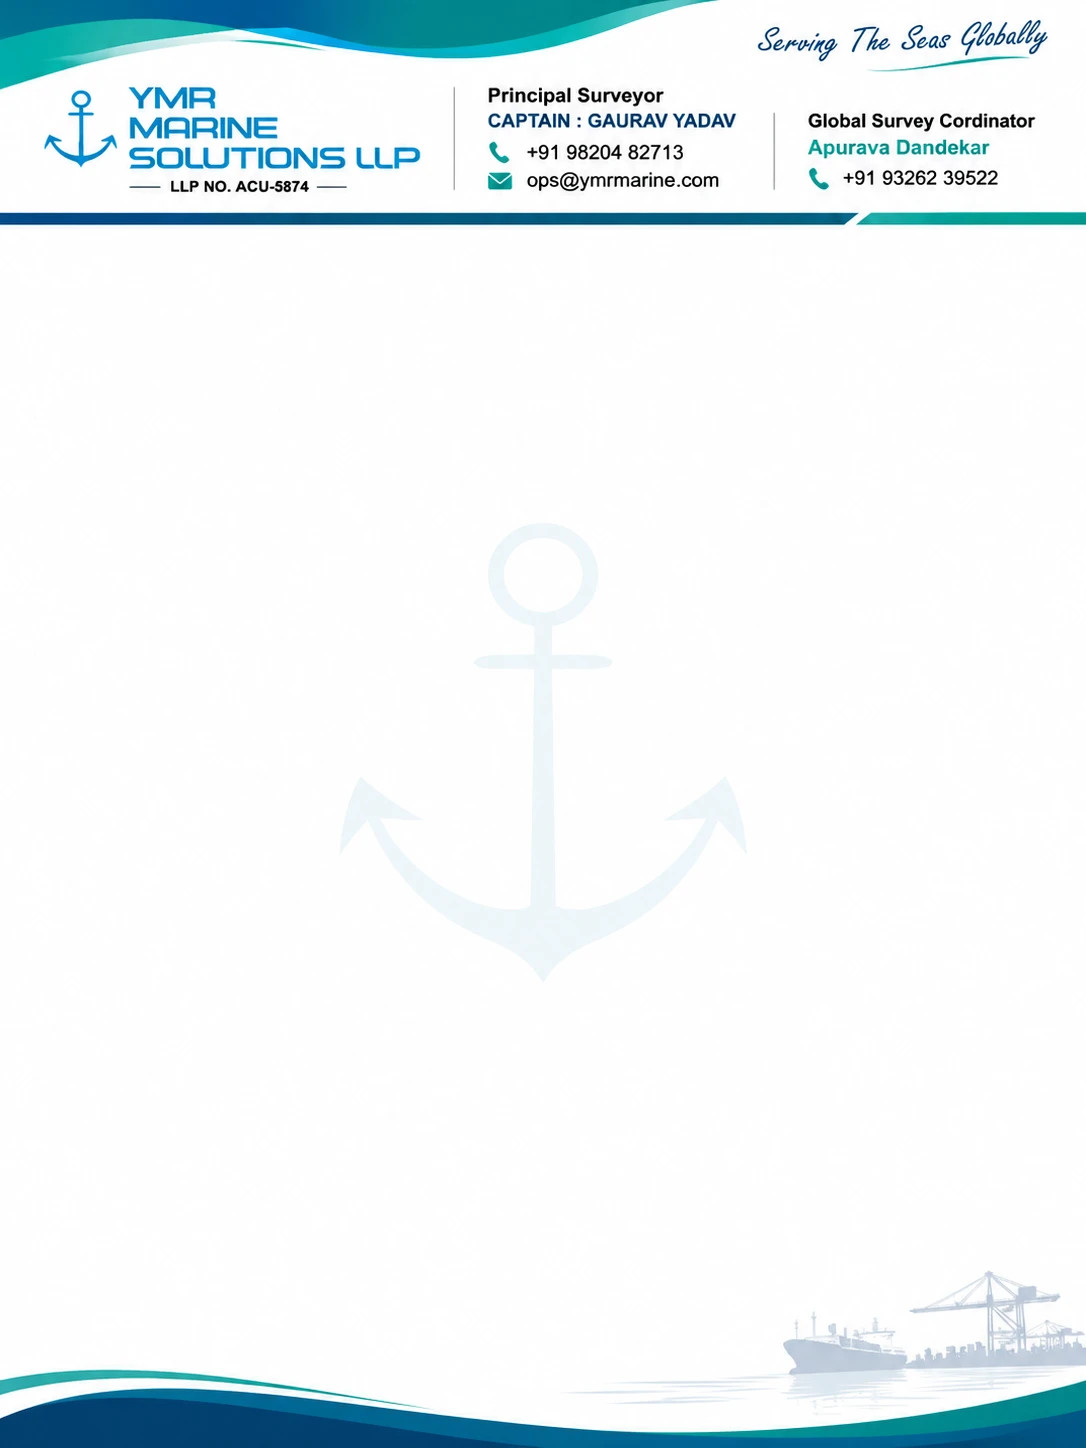
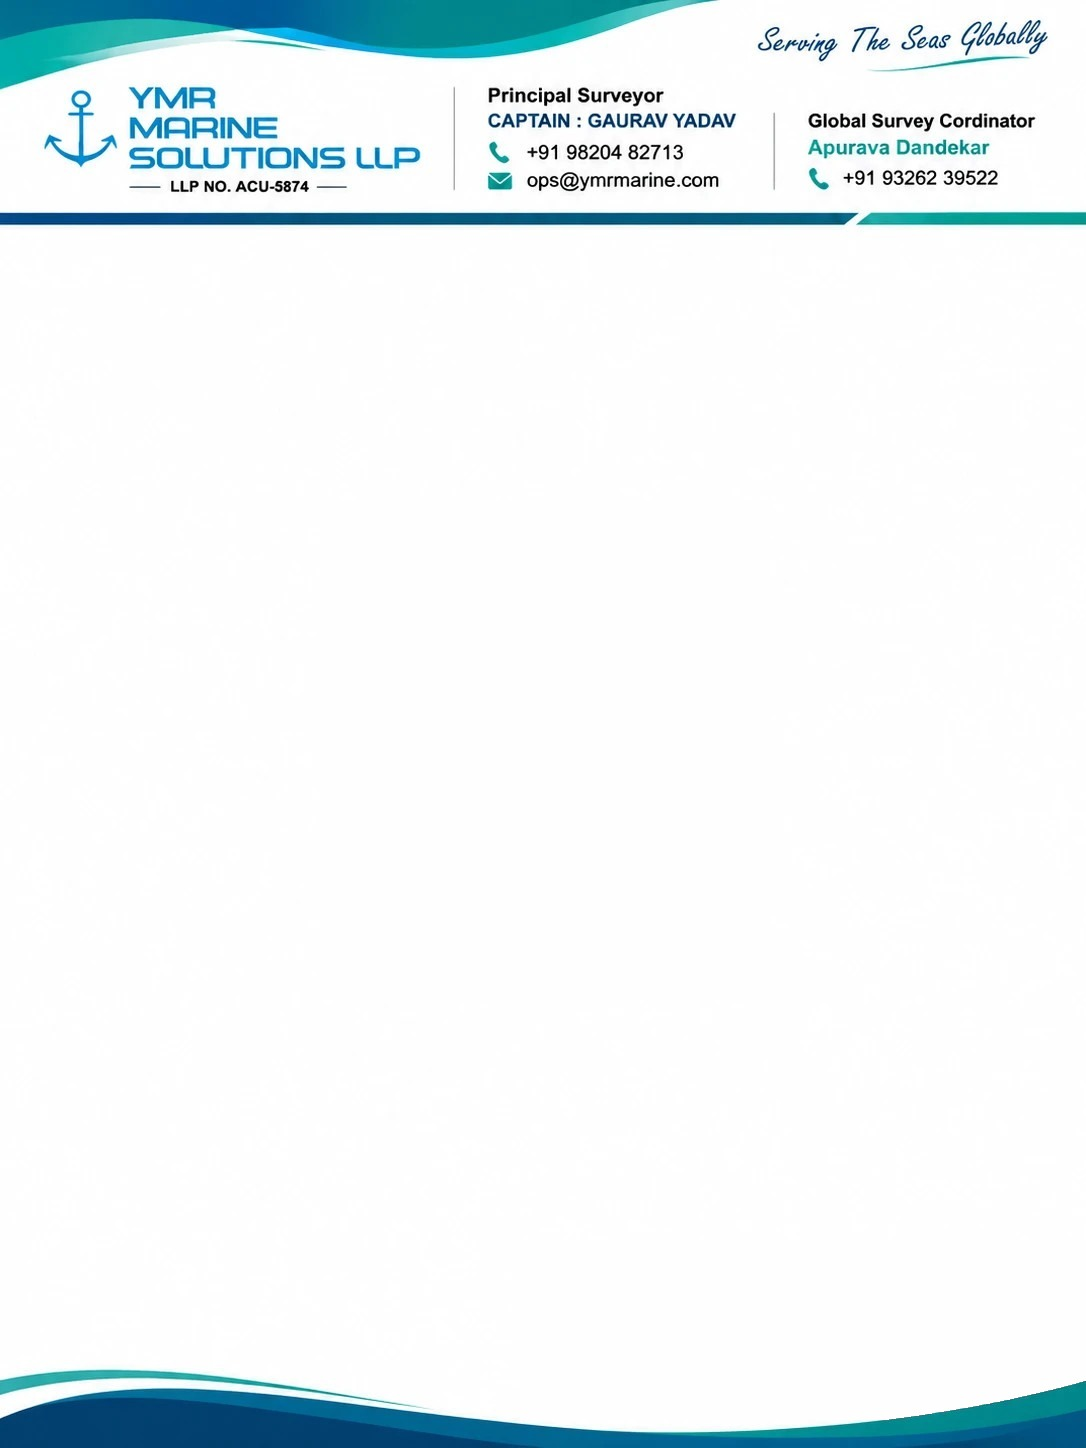
Invoice PDF: signature block on the right, plain letterhead; recovery units from agreed CP price
From staging (bf0889f):
- Signature block (right): signature, FOR YMR MARINE SOLUTIONS LLP, Gaurav Yadav,
  Authorized Signatory.
- Letterhead without the anchor watermark and the ship / crane picture.
- Recovery invoice: optional Agreed CP price for VLSFO, LSMGO, HSFO, ULSFO; unit =
  CP price x agreed %. ULSFO added as an optional fuel.

Claude-Session: https://claude.ai/code/session_01YTCWnYiBCGJ1LBELE6Lyi4

Changed region(s): [[0.7293, 0.8702, 1.0, 0.9634]]

diff --git a/YSMS/invoice_pdf.php b/YSMS/invoice_pdf.php
@@ -89,7 +89,11 @@ foreach (['vlsfo', 'hsfo', 'lsmgo'] as $fuel) {
     $v = $inv[$fuel . '_recovery'] ?? null;
     $recQty[$fuel] = $v !== null && $v !== '' ? rtrim(rtrim(number_format(abs((float)$v), 3, '.', ''), '0'), '.') : '';
 }
-const IG_FUELS = ['vlsfo' => 'VLSFO', 'hsfo' => 'HSFO', 'lsmgo' => 'LSMGO'];
+const IG_FUELS = ['vlsfo' => 'VLSFO', 'hsfo' => 'HSFO', 'lsmgo' => 'LSMGO', 'ulsfo' => 'ULSFO'];
+/** Order of the agreed CP price fields on the form. */
+const IG_CP_ORDER = ['vlsfo', 'lsmgo', 'hsfo', 'ulsfo'];
+/** Fuels that may be left empty on the recovery invoice (listed only when they have an amount). */
+const IG_FUELS_OPTIONAL = ['hsfo', 'ulsfo'];
 
 /** A posted amount / quantity: float, or null when not a valid number ≥ 0. */
 function igNum($v): ?float {
@@ -113,14 +117,19 @@ if (($_SERVER['REQUEST_METHOD'] ?? '') === 'POST') {
         foreach (IG_FUELS as $k => $label) {
             $rate = igNum($_POST[$k . '_rate'] ?? '');
             $qty = igNum($_POST[$k . '_qty'] ?? '');
+            // Unit = agreed CP price × agreed % (when the CP price is given and the unit left empty)
+            $cp = igNum($_POST['cp_' . $k] ?? '');
+            if ($rate === null && $cp !== null && $pct !== null && trim((string)($_POST[$k . '_rate'] ?? '')) === '') $rate = round($cp * $pct / 100, 2);
+            if (in_array($k, IG_FUELS_OPTIONAL, true) && trim((string)($_POST[$k . '_rate'] ?? '')) === '' && $rate === null) $rate = 0.0;
+            if (in_array($k, IG_FUELS_OPTIONAL, true) && trim((string)($_POST[$k . '_qty'] ?? '')) === '') $qty = 0.0;
             if ($rate === null || $qty === null) { $errors[] = $label . ' unit and quantity (enter 0 if there is none)'; continue; }
             $fuelRows[$k] = ['rate' => $rate, 'qty' => $qty];
         }
         if (!$errors) {
             $pctTxt = rtrim(rtrim(number_format($pct, 2, '.', ''), '0'), '.');
             foreach ($fuelRows as $k => $r) {
-                // HSFO is listed only when it was filled in (not 0); VLSFO and LSMGO always.
-                if ($k === 'hsfo' && ($r['rate'] * $r['qty']) <= 0) continue;
+                // HSFO / ULSFO are listed only when filled in (not 0); VLSFO and LSMGO always.
+                if (in_array($k, IG_FUELS_OPTIONAL, true) && ($r['rate'] * $r['qty']) <= 0) continue;
                 $items[] = ['desc' => 'COMMISSION ON RECOVERY @' . $pctTxt . '% OF CP PRICE FOR ' . IG_FUELS[$k], 'rate' => $r['rate'], 'qty' => $r['qty']]; // % is only part of the wording
             }
         }
@@ -278,6 +287,13 @@ include 'includes/header.php';
 .ig-btn { border: 0; border-radius: 10px; padding: 9px 14px; font-weight: 700; font-size: 13px; display: inline-flex; gap: 7px; align-items: center; text-decoration: none; }
 .ig-btn.pv { background: #6C4CF1; color: #fff; } .ig-btn.dl { background: #00A3DF; color: #fff; } .ig-btn.bk { background: #f1f5f9; color: #334155; }
 .ig-svc { display: grid; gap: 8px; }
+.ig-cp { display: grid; grid-template-columns: 124px 1fr; gap: 10px; align-items: end; }
+.ig-cp > div:first-child label { white-space: nowrap; }
+.ig-cp-f .form-control { padding-left: 8px; padding-right: 6px; }
+.ig-cp-f { display: grid; grid-template-columns: repeat(4, minmax(0, 1fr)); gap: 6px; }
+.ig-cp-k { display: block; font-size: 11px; font-weight: 700; color: #475569; margin-bottom: 2px; }
+@media (max-width: 575.98px) { .ig-cp { grid-template-columns: 1fr; } .ig-cp-f { grid-template-columns: repeat(2, minmax(0, 1fr)); } }
+.ig-opt { font-weight: 500; color: #94a3b8; font-size: 11px; }
 .ig-svc-row { display: grid; grid-template-columns: 1fr 170px; gap: 8px; align-items: start; background: #f8fafc; border: 1px solid #eef1f6; border-radius: 10px; padding: 8px; position: relative; }
 .ig-svc-nums { display: grid; grid-template-columns: 1fr 64px; gap: 6px; }
 .ig-svc-fixed { font-size: 13px; font-weight: 700; color: #334155; align-self: center; }
@@ -334,14 +350,23 @@ include 'includes/header.php';
 <?php if ($isRecovery): ?>
         <label>Description</label>
         <textarea class="form-control" name="service_desc" rows="3" data-testid="ig-service-desc"><?= sanitize($sv('service_desc', 'Recovery of bunkers — ' . $serviceDesc)) ?></textarea>
-        <label>Agreed recovery % <span class="ig-req">*</span></label>
-        <input class="form-control" name="recovery_pct" inputmode="decimal" placeholder="e.g. 8" value="<?= sanitize($sv('recovery_pct', '')) ?>" required data-ig-pct data-testid="ig-recovery-pct" style="max-width:140px">
-        <label>Recovery <span class="ig-hint">(unit = CP price, quantity = MT recovered)</span></label>
+        <div class="ig-cp">
+            <div><label>Agreed recovery % <span class="ig-req">*</span></label>
+            <input class="form-control" name="recovery_pct" inputmode="decimal" placeholder="e.g. 8" value="<?= sanitize($sv('recovery_pct', '')) ?>" required data-ig-pct data-testid="ig-recovery-pct"></div>
+            <div><label>Agreed CP price <span class="ig-opt">(USD / MT, optional)</span></label>
+            <div class="ig-cp-f">
+            <?php foreach (IG_CP_ORDER as $k): $label = IG_FUELS[$k]; ?>
+            <div><span class="ig-cp-k"><?= $label ?></span><input class="form-control" name="cp_<?= $k ?>" inputmode="decimal" placeholder="USD" value="<?= sanitize($sv('cp_' . $k, '')) ?>" data-ig-cp="<?= $k ?>" data-testid="ig-cp-<?= $k ?>"></div>
+            <?php endforeach; ?>
+            </div></div>
+        </div>
+        <label>Recovery <span class="ig-hint">(unit = agreed CP price × agreed %, filled in from the CP price; quantity = MT recovered)</span></label>
         <div class="ig-svc" data-testid="ig-recovery">
             <?php foreach (IG_FUELS as $k => $label): ?>
             <div class="ig-svc-row">
-                <div class="ig-svc-fixed">Recovery of <?= $label ?> <span class="ig-req">*</span></div>
-                <div class="ig-svc-nums"><input class="form-control" name="<?= $k ?>_rate" inputmode="decimal" placeholder="Unit" value="<?= sanitize($sv($k . '_rate', '')) ?>" required data-ig-rate data-testid="ig-<?= $k ?>-rate"><input class="form-control" name="<?= $k ?>_qty" inputmode="decimal" placeholder="Qty" value="<?= sanitize($sv($k . '_qty', $recQty[$k])) ?>" required data-ig-qty data-testid="ig-<?= $k ?>-qty"></div>
+                <?php $opt = in_array($k, IG_FUELS_OPTIONAL, true); ?>
+                <div class="ig-svc-fixed">Recovery of <?= $label ?> <?= $opt ? '<span class="ig-opt">(optional)</span>' : '<span class="ig-req">*</span>' ?></div>
+                <div class="ig-svc-nums"><input class="form-control" name="<?= $k ?>_rate" inputmode="decimal" placeholder="Unit" value="<?= sanitize($sv($k . '_rate', '')) ?>"<?= $opt ? '' : ' required' ?> data-ig-rate data-ig-fuel-rate="<?= $k ?>" data-testid="ig-<?= $k ?>-rate"><input class="form-control" name="<?= $k ?>_qty" inputmode="decimal" placeholder="Qty" value="<?= sanitize($sv($k . '_qty', $recQty[$k] ?? '')) ?>"<?= $opt ? '' : ' required' ?> data-ig-qty data-testid="ig-<?= $k ?>-qty"></div>
             </div>
             <?php endforeach; ?>
             <div class="ig-total">Total <b data-ig-total>$0.00</b></div>
@@ -449,6 +474,20 @@ include 'includes/header.php';
     document.querySelectorAll('.ig-svc-row').forEach(function (r) { var a = r.querySelector('[data-ig-rate]'), q = r.querySelector('[data-ig-qty]'); if (a) t += num(a.value) * (q && q.value !== '' ? num(q.value) : 1); });
     document.querySelector('[data-ig-total]').textContent = '$' + t.toLocaleString('en-US', { minimumFractionDigits: 2, maximumFractionDigits: 2 });
   }
+  // Recovery: unit of each fuel = agreed CP price × agreed % (recalculated when either changes)
+  function cpUnits(only) {
+    var pctEl = document.querySelector('[data-ig-pct]'); if (!pctEl) return;
+    var pct = num(pctEl.value);
+    document.querySelectorAll('[data-ig-cp]').forEach(function (c) {
+      var k = c.getAttribute('data-ig-cp'); if (only && only !== k) return;
+      var rate = document.querySelector('[data-ig-fuel-rate="' + k + '"]');
+      if (!rate || String(c.value).trim() === '' || !(pct > 0)) return;
+      rate.value = (Math.round(num(c.value) * pct) / 100).toFixed(2);
+    });
+    total();
+  }
+  document.querySelectorAll('[data-ig-cp]').forEach(function (c) { c.addEventListener('input', function () { cpUnits(c.getAttribute('data-ig-cp')); }); });
+  var pctIn = document.querySelector('[data-ig-pct]'); if (pctIn) pctIn.addEventListener('input', function () { cpUnits(null); });
   var add = document.querySelector('[data-ig-add]');
   if (add) add.addEventListener('click', function () {
     var r = document.createElement('div');

diff --git a/YSMS/includes/invoice_pdf_template.php b/YSMS/includes/invoice_pdf_template.php
@@ -113,7 +113,8 @@ function invoicePdfHtml(array $d): string {
         . '<div class="small" style="text-align:right;margin-top:3px">E. &amp; O.E</div>'
         . '<p style="margin:8px 0 3px"><b><u>BANK DETAILS</u></b></p><table class="bank">' . $bank . '</table>'
         . '<p class="small" style="margin-top:8px">*We declare that this invoice shows the actual price of the goods described and that all particulars are true and correct.</p>'
-        . '<table style="margin-top:4px;page-break-inside:avoid"><tr><td style="vertical-align:bottom"><b>' . $h($co['for']) . '</b></td><td style="text-align:right;width:230px"><div class="sig">' . $h($co['signatory']) . '</div><b>' . $h($co['signatory']) . '</b><br>Authorised Signatory</td></tr></table>'
+        // Signature, then FOR YMR MARINE SOLUTIONS LLP, the name and Authorized Signatory (right side)
+        . '<table style="margin-top:4px;page-break-inside:avoid"><tr><td></td><td style="text-align:right;width:260px"><div class="sig">' . $h($co['signatory']) . '</div><b>' . $h($co['for']) . '</b><br><b>' . $h($co['signatory']) . '</b><br>Authorized Signatory</td></tr></table>'
         . '<p class="small" style="text-align:center;margin-top:8px">This is a Computer Generated Invoice</p>'
         . '</body></html>';
 }
